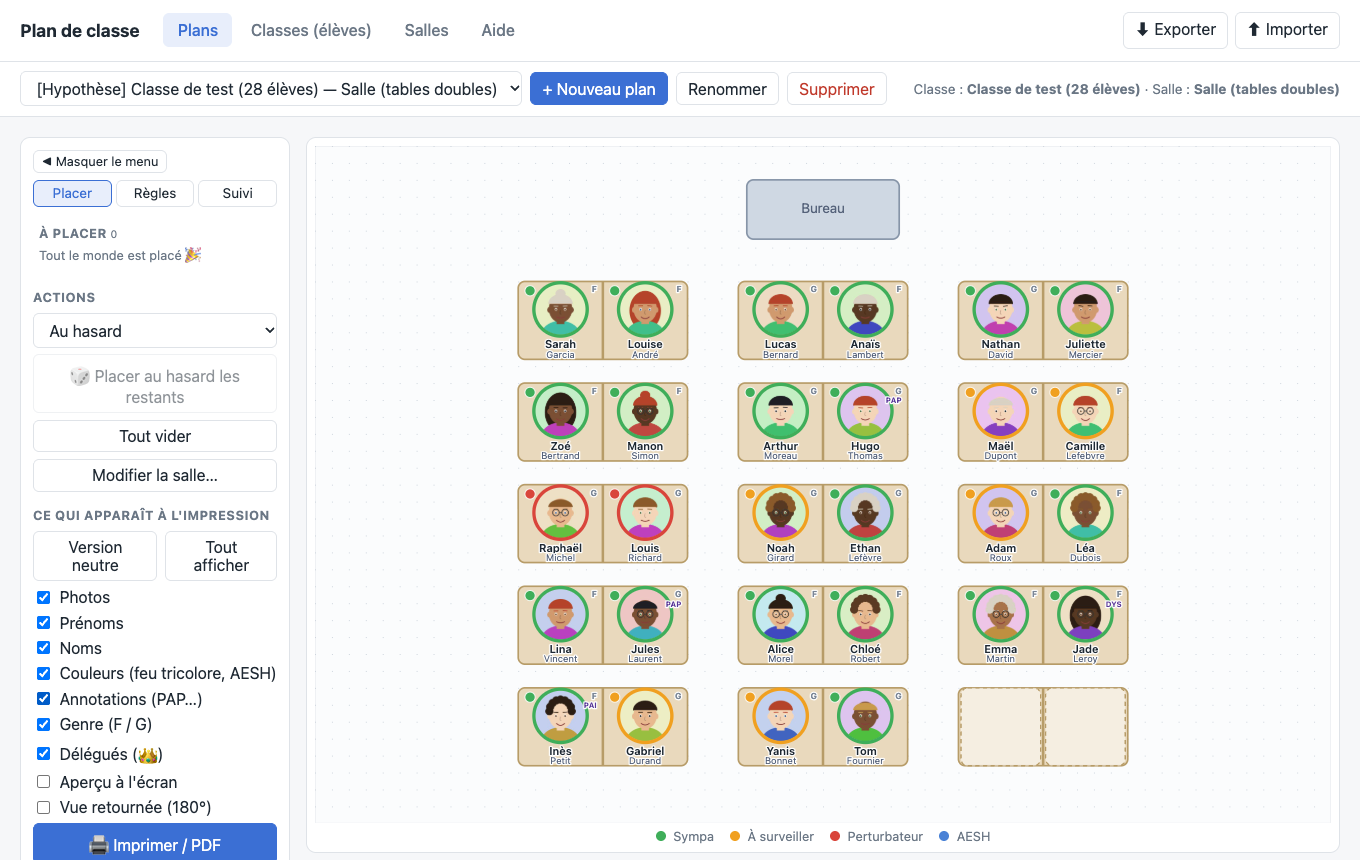
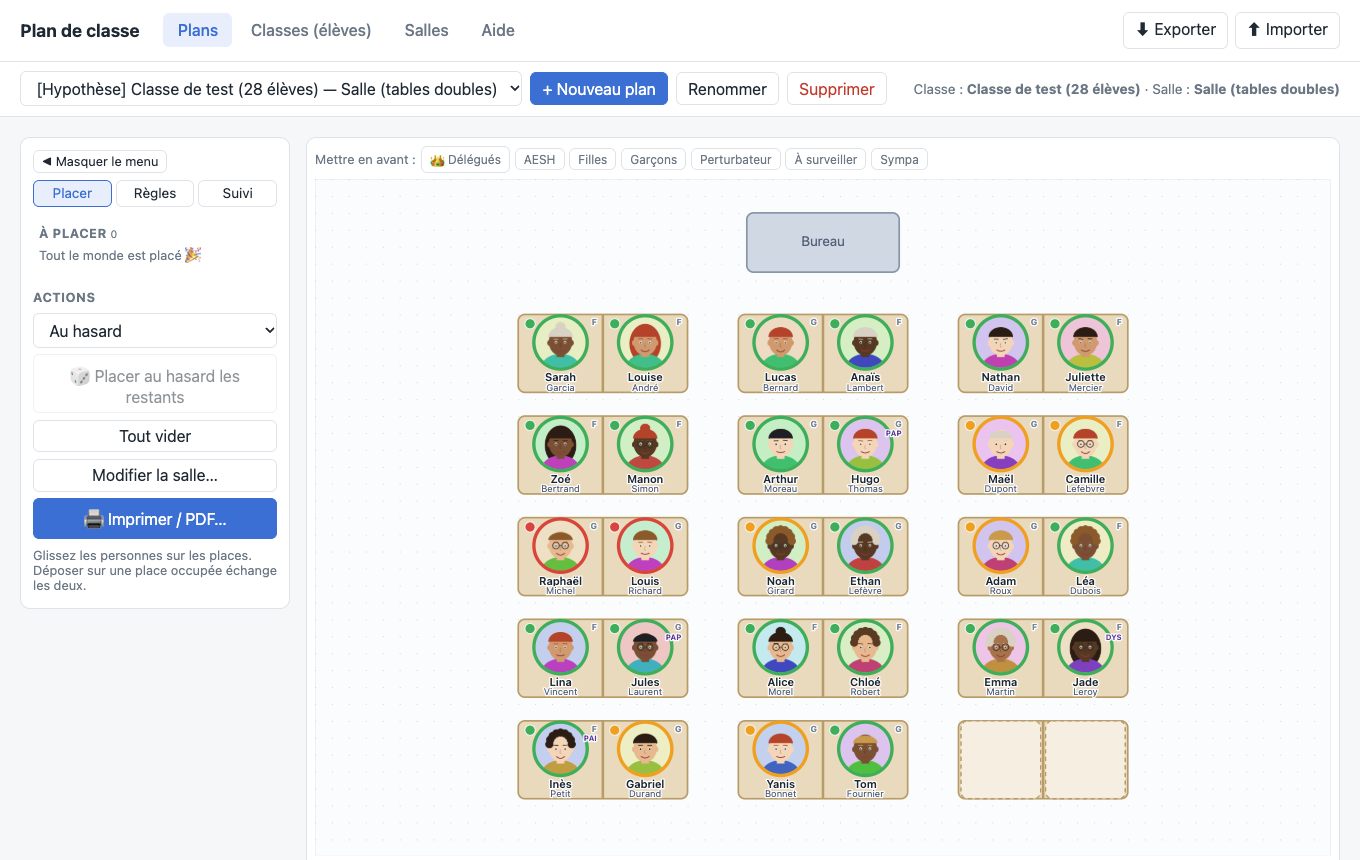
feat: print dialog with live preview, search when separating students
Print options move into a dialog showing a zoomed sample of the printed
cards. Separating students gets an accent-insensitive search. Also fixes
the left menu overflow and scrollbar, and the empty-avatar margin.

Changed region(s): [[0.2471, 0.1814, 0.8338, 0.9372], [0.0, 0.5744, 0.2162, 1.0], [0.4632, 0.9674, 0.7412, 0.9977]]

diff --git a/src/ui/PlanEditor.tsx b/src/ui/PlanEditor.tsx
@@ -25,6 +25,7 @@ import {
   savePrintOptions,
   type PrintOptions,
 } from './printOptions'
+import { Modal } from './Modal'
 import { CrownShape, NeutralAvatarShapes } from './NeutralAvatar'
 import { RoomSvg } from './RoomSvg'
 import { RulesPanel } from './RulesPanel'
@@ -54,6 +55,7 @@ export function PlanEditor({ plan, schoolClass, room }: Props) {
   const [otherRoomId, setOtherRoomId] = useState('')
   const [hovered, setHovered] = useState<string[]>()
   const [filter, setFilter] = useState<StudentFilter>()
+  const [printOpen, setPrintOpen] = useState(false)
   useEffect(() => savePrintOptions(options), [options])
   useEffect(() => localStorage.setItem(COLLAPSED_KEY, collapsed ? '1' : '0'), [collapsed])
   const otherRooms = rooms.filter((r) => r.id !== room.id)
@@ -115,6 +117,15 @@ export function PlanEditor({ plan, schoolClass, room }: Props) {
       window.removeEventListener('keydown', onKeyDown)
     }
   }, [dragging, assignSeat, plan.id])
+
+  // A few students to show in the print dialog, favouring those who make the options visible.
+  const richness = (s: Student) =>
+    Number(s.delegate) * 3 + s.annotations.length + Number(Boolean(s.gender)) + Number(isAesh(s))
+  const sample = [...schoolClass.students]
+    .sort(
+      (a, b) => Number(placedStudentIds.has(b.id)) - Number(placedStudentIds.has(a.id)) || richness(b) - richness(a),
+    )
+    .slice(0, 3)
 
   const photoUrl = (s: Student) => (s.photoId ? photoUrls[s.photoId] : undefined)
   const draggedStudent = drag && studentsById.get(drag.studentId)
@@ -195,7 +206,7 @@ export function PlanEditor({ plan, schoolClass, room }: Props) {
                   Modifier la salle…
                 </button>
                 {otherRooms.length > 0 && (
-                  <div className="row">
+                  <>
                     <select
                       aria-label="Autre salle"
                       value={otherRoomId}
@@ -208,36 +219,13 @@ export function PlanEditor({ plan, schoolClass, room }: Props) {
                         </option>
                       ))}
                     </select>
-                    <button disabled={!otherRoomId} onClick={() => applyPlanToRoom(plan.id, otherRoomId)}>
-                      Appliquer
-                    </button>
-                  </div>
+                    {otherRoomId && (
+                      <button onClick={() => applyPlanToRoom(plan.id, otherRoomId)}>Appliquer à cette salle</button>
+                    )}
+                  </>
                 )}
-                <h3>Ce qui apparaît à l'impression</h3>
-                <div className="row">
-                  <button onClick={() => setOptions(NEUTRAL_OPTIONS)}>Version neutre</button>
-                  <button onClick={() => setOptions(FULL_OPTIONS)}>Tout afficher</button>
-                </div>
-                {(Object.keys(PRINT_OPTION_LABELS) as (keyof PrintOptions)[]).map((key) => (
-                  <label key={key} className="check">
-                    <input
-                      type="checkbox"
-                      checked={options[key]}
-                      onChange={(e) => setOptions({ ...options, [key]: e.target.checked })}
-                    />{' '}
-                    {PRINT_OPTION_LABELS[key]}
-                  </label>
-                ))}
-                <label className="check">
-                  <input type="checkbox" checked={previewMode} onChange={(e) => setPreviewMode(e.target.checked)} />{' '}
-                  Aperçu à l'écran
-                </label>
-                <label className="check">
-                  <input type="checkbox" checked={flipped} onChange={(e) => setFlipped(e.target.checked)} /> Vue
-                  retournée (180°)
-                </label>
-                <button className="primary" onClick={() => window.print()}>
-                  🖨 Imprimer / PDF
+                <button className="primary" onClick={() => setPrintOpen(true)}>
+                  🖨 Imprimer / PDF…
                 </button>
                 <p className="hint">
                   Glissez les personnes sur les places. Déposer sur une place occupée échange les deux.
@@ -325,6 +313,21 @@ export function PlanEditor({ plan, schoolClass, room }: Props) {
         </RoomSvg>
         <Legend />
       </div>
+
+      {printOpen && (
+        <PrintDialog
+          sample={sample}
+          photoUrl={photoUrl}
+          light={(s) => analysis.effectiveLight[s.id] ?? s.light}
+          options={options}
+          onOptions={setOptions}
+          previewMode={previewMode}
+          onPreviewMode={setPreviewMode}
+          flipped={flipped}
+          onFlipped={setFlipped}
+          onClose={() => setPrintOpen(false)}
+        />
+      )}
 
       {drag && draggedStudent && (
         <div className="drag-ghost" style={{ left: drag.x, top: drag.y }}>
@@ -481,6 +484,105 @@ function Avatar({ student, url }: { student: Student; url?: string }) {
   return url ? (
     <img className="avatar" src={url} alt="" />
   ) : (
-    <span className="avatar empty">{student.firstName.slice(0, 1)}</span>
+    <span className="avatar no-photo">{student.firstName.slice(0, 1)}</span>
+  )
+}
+
+type PrintDialogProps = {
+  sample: Student[]
+  photoUrl(s: Student): string | undefined
+  light(s: Student): TrafficLight
+  options: PrintOptions
+  onOptions(options: PrintOptions): void
+  previewMode: boolean
+  onPreviewMode(on: boolean): void
+  flipped: boolean
+  onFlipped(on: boolean): void
+  onClose(): void
+}
+
+/** What appears on the printed plan; only shown once the user asks to print. */
+function PrintDialog({
+  sample,
+  photoUrl,
+  light,
+  options,
+  onOptions,
+  previewMode,
+  onPreviewMode,
+  flipped,
+  onFlipped,
+  onClose,
+}: PrintDialogProps) {
+  return (
+    <Modal title="Imprimer / PDF" onClose={onClose}>
+      <figure className="print-sample-figure">
+        <div className={`${canvasClassName(options, false, true)} sample`}>
+          <svg
+            className="room-svg"
+            viewBox={`0 0 ${sample.length * (CARD.w + 12) + 12} ${CARD.h + 24}`}
+            role="img"
+            aria-label="Aperçu de quelques élèves tels qu'ils seront imprimés"
+          >
+            <defs>
+              <clipPath id="photo-clip">
+                <circle cx={PHOTO.cx} cy={PHOTO.cy} r={PHOTO.r} />
+              </clipPath>
+            </defs>
+            <rect className="furniture" x={0} y={0} width="100%" height="100%" rx={10} />
+            {sample.map((student, i) => (
+              <g key={student.id} transform={`translate(${12 + i * (CARD.w + 12)} 12)`}>
+                <StudentCard
+                  student={student}
+                  photoUrl={photoUrl(student)}
+                  ringColor={isAesh(student) ? AESH_COLOR : LIGHT_COLORS[light(student)]}
+                  light={isAesh(student) ? undefined : light(student)}
+                  worsened={false}
+                  isDragged={false}
+                  dimmed={false}
+                  onPointerDown={() => undefined}
+                />
+              </g>
+            ))}
+          </svg>
+        </div>
+        <figcaption>Aperçu de quelques élèves, agrandis</figcaption>
+      </figure>
+      <h4>Ce qui apparaît à l'impression</h4>
+      <div className="row">
+        <button onClick={() => onOptions(NEUTRAL_OPTIONS)}>Version neutre</button>
+        <button onClick={() => onOptions(FULL_OPTIONS)}>Tout afficher</button>
+      </div>
+      {(Object.keys(PRINT_OPTION_LABELS) as (keyof PrintOptions)[]).map((key) => (
+        <label key={key} className="check">
+          <input
+            type="checkbox"
+            checked={options[key]}
+            onChange={(e) => onOptions({ ...options, [key]: e.target.checked })}
+          />{' '}
+          {PRINT_OPTION_LABELS[key]}
+        </label>
+      ))}
+      <label className="check">
+        <input type="checkbox" checked={previewMode} onChange={(e) => onPreviewMode(e.target.checked)} /> Aperçu à
+        l'écran (reste affiché une fois cette fenêtre fermée)
+      </label>
+      <label className="check">
+        <input type="checkbox" checked={flipped} onChange={(e) => onFlipped(e.target.checked)} /> Vue retournée (180°)
+      </label>
+      <div className="form-actions">
+        <button onClick={onClose}>Fermer</button>
+        <button
+          className="primary"
+          onClick={() => {
+            onClose()
+            // Let the dialog disappear before the browser takes its snapshot.
+            setTimeout(() => window.print(), 50)
+          }}
+        >
+          🖨 Imprimer / PDF
+        </button>
+      </div>
+    </Modal>
   )
 }

diff --git a/src/ui/RulesPanel.tsx b/src/ui/RulesPanel.tsx
@@ -14,6 +14,9 @@ import {
 } from '../model/types'
 import { useApp } from '../store'
 
+/** Lowercase, accents removed, so that searches ignore both. */
+const normalizeText = (text: string) => text.normalize('NFD').replace(/\p{M}/gu, '').toLowerCase()
+
 function describeRule(rule: Rule, byId: Map<string, Student>) {
   const name = (id: string) => (byId.get(id) ? fullName(byId.get(id)!) : '?')
   if (rule.type === 'separate') return `${name(rule.studentA)} ≠ ${name(rule.studentB)} (séparés)`
@@ -40,6 +43,7 @@ export function RulesPanel({ plan, schoolClass, alerts, onHighlight }: Props) {
   const [first, setFirst] = useState('')
   const [second, setSecond] = useState('')
   const [group, setGroup] = useState<string[]>([])
+  const [search, setSearch] = useState('')
   const [lightA, setLightA] = useState<TrafficLight>('red')
   const [lightB, setLightB] = useState<TrafficLight>('red')
   const [becomes, setBecomes] = useState<TrafficLight>('orange')
@@ -57,6 +61,7 @@ export function RulesPanel({ plan, schoolClass, alerts, onHighlight }: Props) {
         group.slice(i + 1).forEach((b) => exists(a, b) || addRule(plan.id, { type, studentA: a, studentB: b })),
       )
       setGroup([])
+      setSearch('')
     } else if (type === 'colors') addRule(plan.id, { type, a: lightA, b: lightB })
     else addRule(plan.id, { type, student: first, near: second, becomes })
   }
@@ -139,17 +144,30 @@ export function RulesPanel({ plan, schoolClass, alerts, onHighlight }: Props) {
             <summary>
               {group.length ? `${group.length} élèves à séparer les uns des autres` : 'Choisir les élèves à séparer'}
             </summary>
+            <input
+              type="search"
+              aria-label="Chercher un élève"
+              placeholder="Chercher un élève…"
+              value={search}
+              onChange={(e) => setSearch(e.target.value)}
+            />
             <div className="checklist">
-              {students.map((s) => (
-                <label key={s.id} className="check">
-                  <input
-                    type="checkbox"
-                    checked={group.includes(s.id)}
-                    onChange={(e) => setGroup(e.target.checked ? [...group, s.id] : group.filter((id) => id !== s.id))}
-                  />
-                  {fullName(s)}
-                </label>
-              ))}
+              {students
+                .filter(
+                  (s) => group.includes(s.id) || normalizeText(fullName(s)).includes(normalizeText(search.trim())),
+                )
+                .map((s) => (
+                  <label key={s.id} className="check">
+                    <input
+                      type="checkbox"
+                      checked={group.includes(s.id)}
+                      onChange={(e) =>
+                        setGroup(e.target.checked ? [...group, s.id] : group.filter((id) => id !== s.id))
+                      }
+                    />
+                    {fullName(s)}
+                  </label>
+                ))}
             </div>
           </details>
         )}

diff --git a/src/ui/styles.css b/src/ui/styles.css
@@ -417,7 +417,12 @@ footer .link-button {
   position: sticky;
   top: 1rem;
   max-height: calc(100vh - 2rem);
-  overflow: auto;
+  overflow-x: hidden;
+  overflow-y: auto;
+  /* A discreet scrollbar that only takes room when needed, instead of the heavy system one. */
+  scrollbar-width: thin;
+  scrollbar-color: #c3cad5 transparent;
+  overscroll-behavior: contain;
 }
 .side-toggle {
   align-self: flex-start;
@@ -583,7 +588,7 @@ footer .link-button {
   object-fit: cover;
   flex: none;
 }
-.avatar.empty {
+.avatar.no-photo {
   background: #dde3ea;
   display: inline-flex;
   align-items: center;
@@ -1142,4 +1147,28 @@ footer .link-button {
   .card-svg.dimmed {
     opacity: 1;
   }
+}
+
+/* Zoomed sample of the printed cards, in the print dialog. */
+.canvas-area.sample {
+  display: block;
+  aspect-ratio: auto;
+  overflow: visible;
+  border: none;
+  padding: 0;
+}
+.canvas-area.sample .room-svg {
+  max-height: none;
+}
+.canvas-area.sample .print-title,
+.canvas-area.sample .filters {
+  display: none;
+}
+.print-sample-figure {
+  margin: 0 0 0.8rem;
+}
+.print-sample-figure figcaption {
+  font-size: 0.75rem;
+  color: var(--muted);
+  text-align: center;
 }

diff --git a/docs/guide.md b/docs/guide.md
@@ -198,16 +198,16 @@ La liste en bas permet de passer d'une hypothèse à l'autre et de garder un his
 
 ## Imprimer
 
-Dans l'onglet **Placer**, la section **« Ce qui apparaît à l'impression »** vous laisse choisir : photos, prénoms, noms, couleurs, annotations, genre, délégués.
+Dans l'onglet **Placer**, le bouton **Imprimer / PDF…** ouvre une fenêtre qui vous laisse choisir ce qui apparaît à l'impression, avec un aperçu agrandi de quelques élèves qui suit vos choix : photos, prénoms, noms, couleurs, annotations, genre, délégués.
 
 - **Version neutre** : photos et noms uniquement, sans couleurs ni annotations ni genre. À utiliser pour un plan **affiché en classe**, que les élèves peuvent lire.
 - **Tout afficher** : version complète pour vous.
-- **Aperçu à l'écran** : montre ces choix tout de suite, au lieu de seulement à l'impression.
+- **Aperçu à l'écran** : montre ces choix sur le plan, au lieu de seulement à l'impression (il reste affiché après la fermeture de la fenêtre ; rouvrez-la pour le désactiver).
 - **Vue retournée (180°)** : le plan vu depuis le fond de la classe, avec les noms toujours lisibles.
 
 ![Version neutre](img/09-impression-neutre.png)
 
-Cliquez sur **Imprimer / PDF**. Dans la fenêtre d'impression, choisissez « Enregistrer au format PDF » pour obtenir un fichier. Le plan est mis en page en A4 paysage, sur une seule page ; **Aperçu à l'écran** a les mêmes proportions que la page imprimée. Vos choix d'affichage sont mémorisés.
+Cliquez sur **Imprimer / PDF** dans cette fenêtre. Dans la fenêtre d'impression, choisissez « Enregistrer au format PDF » pour obtenir un fichier. Le plan est mis en page en A4 paysage, sur une seule page ; **Aperçu à l'écran** a les mêmes proportions que la page imprimée. Vos choix d'affichage sont mémorisés.
 
 ---
 

diff --git a/docs/release-notes.md b/docs/release-notes.md
@@ -3,11 +3,17 @@
 Ce qui change pour vous, version après version. Vos données restent sur votre ordinateur : pensez à exporter une
 sauvegarde avant de mettre à jour.
 
+## 0.5.0 — 2026-10-26
+
+- (à rédiger)
+
 ## 0.4.0 — 2026-10-26
 
 - **Mettre des élèves en avant** : en survolant une règle ou une alerte, les élèves concernés restent bien visibles et
   les autres s'estompent. Au-dessus du plan, des filtres rapides (délégués, AESH, filles, garçons, couleurs) font de même.
   Rien de tout cela n'est imprimé.
+- **Imprimer / PDF dans une fenêtre** : les options d'impression ne chargent plus le menu. La fenêtre montre un aperçu
+  agrandi de quelques élèves, qui suit vos choix en direct.
 - **Ouvrir un fichier .classe d'un double-clic** : dans l'application installée (Chrome), un fichier `.classe` s'ouvre
   directement dans l'application, avec le même choix « Ajouter » / « Tout remplacer » que l'import.
 - **Mises à jour plus rapides** : l'application installée cherche une nouvelle version toutes les heures et chaque fois
